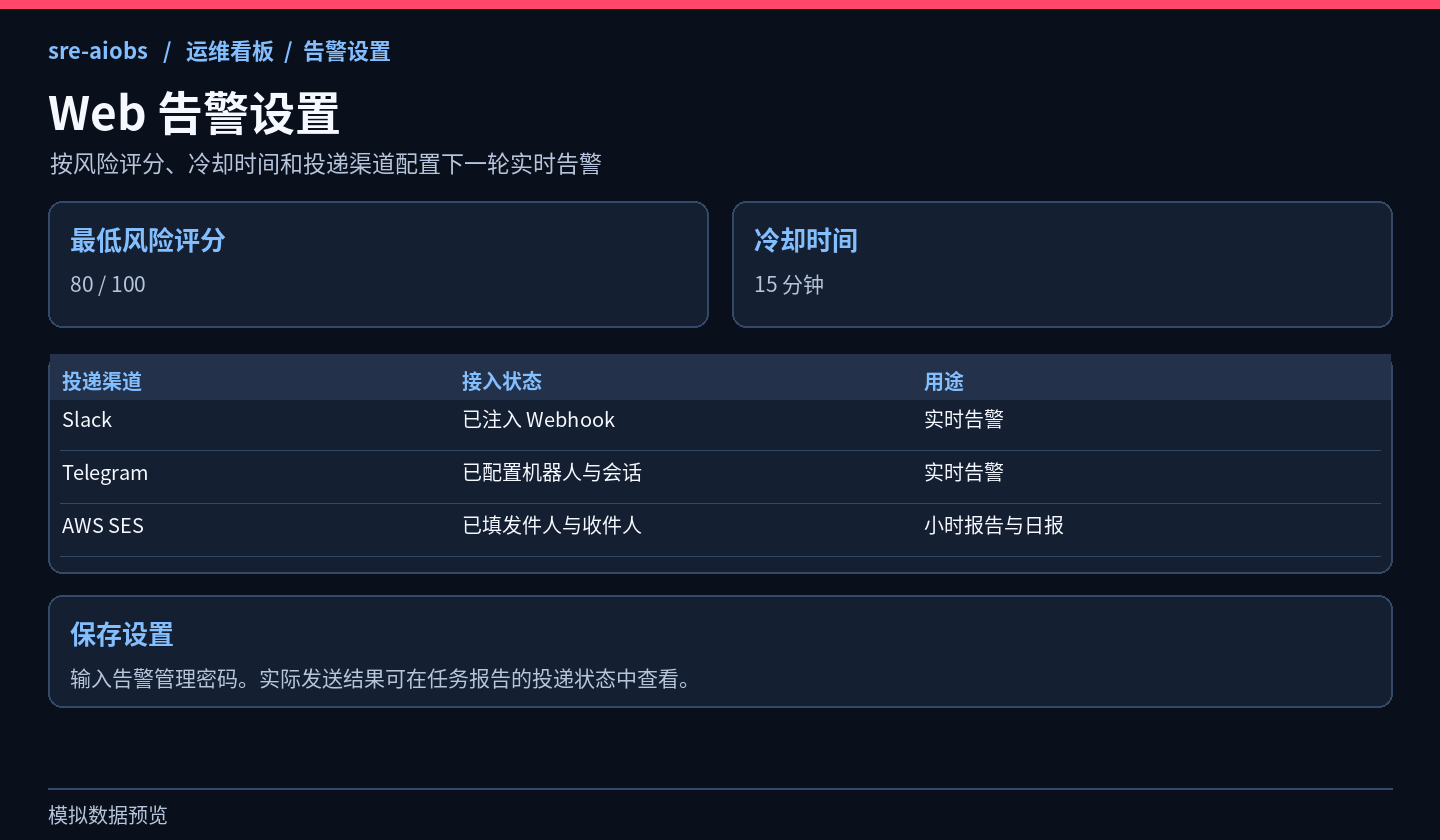
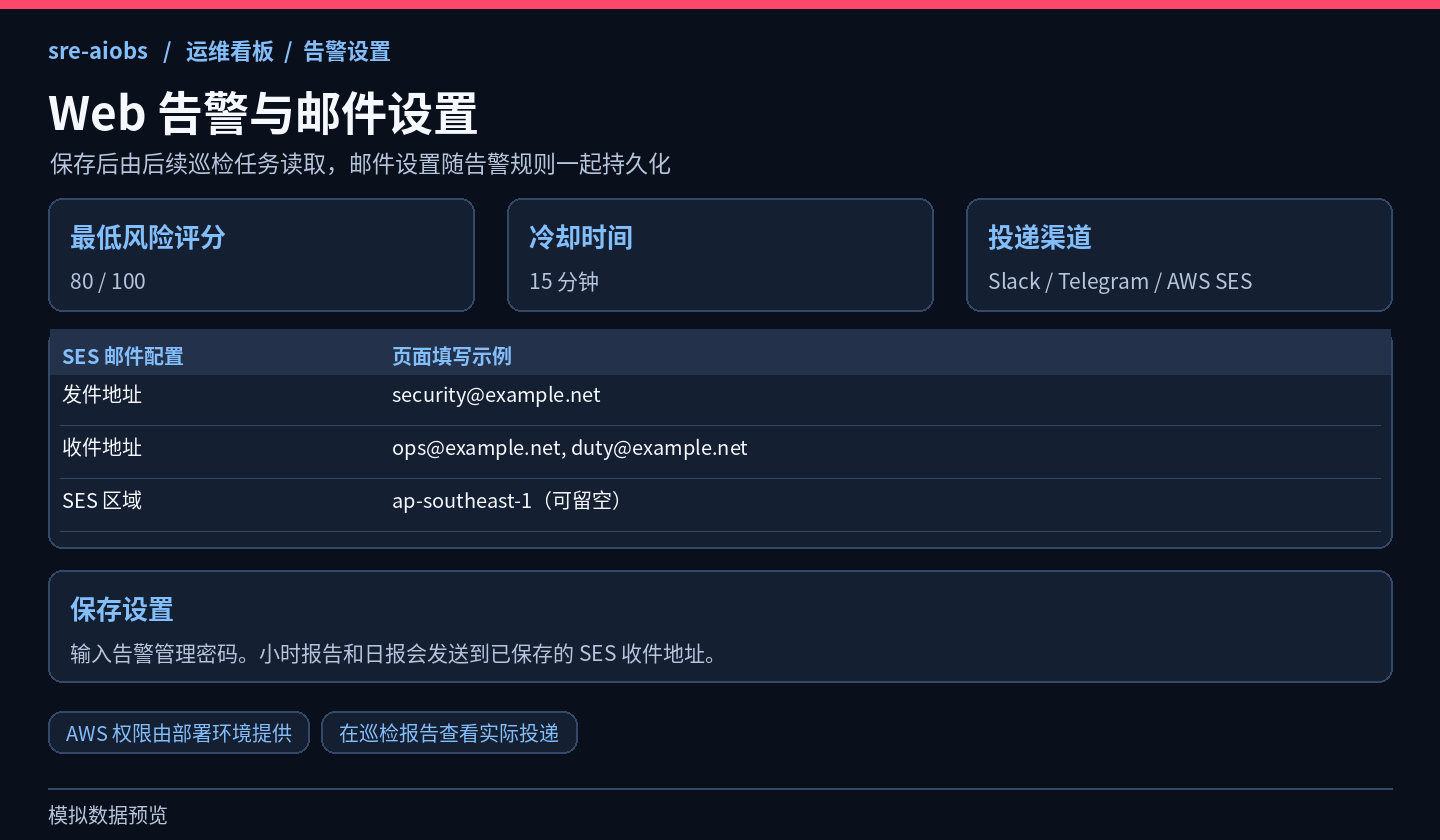
将巡检邮件配置迁移到 Web 告警设置
在页面保存 SES 发件地址、收件地址和可选区域，由 PostgreSQL 提供后续小时报告和日报的投递目标。保留 AWS 权限在部署环境，旧 YAML 邮件地址仅兼容读取配置结构，不参与投递。

增加地址与区域校验、管理密码授权测试和迁移说明，更新告警设置预览。Go 版本与官方最新稳定版 1.27.4 一致。

Changed region(s): [[0.0312, 0.0929, 0.9688, 0.8976], [0.9375, 0.8048, 0.9688, 0.8357]]

diff --git a/internal/dashboard/web/app.js b/internal/dashboard/web/app.js
@@ -345,13 +345,21 @@ async function loadAlertSettings() {
     for (const key of ["slack","telegram","email"]) byId("alert-"+key).checked=settings[key];
     byId("slack-state").textContent=settings.slack_configured?"· 已注入 Webhook":"· 未配置 Webhook";
     byId("telegram-state").textContent=settings.telegram_configured?"· 已配置机器人与会话":"· 缺少机器人或会话";
-    byId("email-state").textContent=settings.email_configured?"· 已填发件人与收件人":"· 缺少发件人或收件人";
+    const email=settings.email_destination||{};
+    byId("email-from").value=email.from||"";
+    byId("email-to").value=(email.to||[]).join("\n");
+    byId("email-region").value=email.region||"";
+    showEmailDestinationStatus(settings.email_configured);
     byId("alert-fields").disabled=!settings.editable;
     byId("alert-actions").hidden=!settings.editable;
     status.textContent=settings.editable?"保存后应用于后续告警任务。":"请配置告警管理密码以启用修改。";
   } catch {
     status.textContent="暂时无法加载告警设置，请刷新页面。";
   }
+}
+
+function showEmailDestinationStatus(configured) {
+  byId("email-state").textContent=configured?"· 已保存发件人与收件人":"· 缺少发件人或收件人";
 }
 
 byId("alert-form").addEventListener("submit",async event=>{
@@ -361,7 +369,12 @@ byId("alert-form").addEventListener("submit",async event=>{
   status.textContent="正在保存…";
   const settings={
     minimum_score:byId("minimum-score").valueAsNumber,
-    cooldown_minutes:byId("cooldown-minutes").valueAsNumber
+    cooldown_minutes:byId("cooldown-minutes").valueAsNumber,
+    email_destination:{
+      from:byId("email-from").value.trim(),
+      to:byId("email-to").value.split(/[,\n]+/).map(address=>address.trim()).filter(Boolean),
+      region:byId("email-region").value.trim()
+    }
   };
   for (const key of ["slack","telegram","email"]) settings[key]=byId("alert-"+key).checked;
   try {
@@ -371,8 +384,12 @@ byId("alert-form").addEventListener("submit",async event=>{
       body:JSON.stringify(settings)
     });
     if (response.status===403) status.textContent="告警管理密码错误或未配置。";
+    else if (response.status===400) status.textContent="请检查风险阈值、邮件地址和 AWS 区域，收件地址最多 50 个。";
     else if (!response.ok) status.textContent="保存失败，请检查设置后重试。";
-    else status.textContent="已保存。后续告警任务将使用新设置。";
+    else {
+      showEmailDestinationStatus(Boolean(settings.email_destination.from&&settings.email_destination.to.length));
+      status.textContent="已保存。后续告警任务将使用新设置。";
+    }
   } catch {
     status.textContent="无法保存，请检查连接后重试。";
   } finally {

diff --git a/internal/dashboard/web/index.html b/internal/dashboard/web/index.html
@@ -64,7 +64,7 @@
         <a class="channel-button" href="https://api.slack.com/apps" target="_blank" rel="noopener noreferrer">配置 Slack Webhook</a>
         <p>Telegram：用 <code>/newbot</code> 创建机器人，注入 <code>TELEGRAM_BOT_TOKEN</code>，并在 YAML 填写 <code>telegram_chat</code>。</p>
         <p>Slack：启用 Incoming Webhooks，选择接收频道，再注入 <code>SLACK_WEBHOOK_URL</code>。</p>
-        <p>邮件：在 YAML 填写 <code>email_from</code> 和 <code>email_to</code>，并为部署配置 AWS SES 地区及发送权限。</p>
+        <p>邮件：在下方填写已通过 AWS SES 验证的发件地址、收件地址和 AWS 区域。AWS 发送权限由部署环境提供。</p>
       </div>
       <form id="alert-form" autocomplete="off">
         <fieldset id="alert-fields" disabled>
@@ -74,6 +74,11 @@
             <label><input id="alert-slack" type="checkbox">Slack 实时告警 <small id="slack-state"></small></label>
             <label><input id="alert-telegram" type="checkbox">Telegram 实时告警 <small id="telegram-state"></small></label>
             <label><input id="alert-email" type="checkbox">邮件小时报告与日报 <small id="email-state"></small></label>
+          </div>
+          <div class="alert-fields email-destination">
+            <label>SES 发件地址<input id="email-from" type="email" maxlength="254" placeholder="security@example.net"></label>
+            <label>SES 收件地址<textarea id="email-to" rows="3" maxlength="12750" placeholder="每行一个，也可用逗号分隔"></textarea></label>
+            <label>SES 区域<input id="email-region" type="text" maxlength="40" placeholder="留空使用部署环境的区域"></label>
           </div>
         </fieldset>
         <div id="alert-actions" hidden><label>告警管理密码 <input id="alert-password" type="password" required></label><button id="alert-save" type="submit">保存设置</button></div>

diff --git a/internal/dashboard/web/app.css b/internal/dashboard/web/app.css
@@ -19,3 +19,5 @@ dialog{width:min(92vw,590px);max-height:85vh;padding:22px;border:1px solid var(-
 .source-check{display:inline-flex;align-items:center;gap:8px;white-space:normal}.source-check [role=status]{color:var(--muted)}
 
 .source-hint{margin:0 0 12px;color:var(--muted);font-size:.88rem}
+
+.email-destination{align-items:start;margin:0 0 16px}.email-destination textarea{width:100%;padding:9px 11px;border:1px solid #cfdaea;border-radius:8px;font:inherit;color:inherit;resize:vertical}

diff --git a/internal/dashboard/alerts_status_test.go b/internal/dashboard/alerts_status_test.go
@@ -11,13 +11,14 @@ import (
 	"sre-aiobs/internal/platform"
 )
 
-type alertStatusFixture struct{}
+type alertStatusFixture struct{ settings platform.AlertSettings }
 
-func (alertStatusFixture) AlertSettings(context.Context) (platform.AlertSettings, error) {
-	return platform.DefaultAlertSettings(), nil
+func (f *alertStatusFixture) AlertSettings(context.Context) (platform.AlertSettings, error) {
+	return f.settings, nil
 }
 
-func (alertStatusFixture) SaveAlertSettings(context.Context, platform.AlertSettings) error {
+func (f *alertStatusFixture) SaveAlertSettings(_ context.Context, settings platform.AlertSettings) error {
+	f.settings = settings
 	return nil
 }
 
@@ -25,9 +26,9 @@ func TestAlertSettingsShowsConfiguredDestinationsWithoutSecrets(t *testing.T) {
 	t.Setenv("SLACK_WEBHOOK_URL", "slack-fixture-secret")
 	t.Setenv("TELEGRAM_BOT_TOKEN", "telegram-fixture-secret")
 	mux := http.NewServeMux()
-	mountAlerts(mux, alertStatusFixture{}, func(h http.Handler) http.HandlerFunc { return h.ServeHTTP }, "test", func() (bool, bool) {
-		return false, true
-	})
+	settings := platform.DefaultAlertSettings()
+	settings.EmailDestination = &platform.EmailDestination{From: "sender@example.net", To: []string{"ops@example.net"}}
+	mountAlerts(mux, &alertStatusFixture{settings: settings}, func(h http.Handler) http.HandlerFunc { return h.ServeHTTP }, "test", func() bool { return false })
 	res := httptest.NewRecorder()
 	mux.ServeHTTP(res, httptest.NewRequest(http.MethodGet, "/api/alert-settings", nil))
 	var flags map[string]json.RawMessage
@@ -35,5 +36,34 @@ func TestAlertSettingsShowsConfiguredDestinationsWithoutSecrets(t *testing.T) {
 		string(flags["slack_configured"]) != "true" || string(flags["telegram_configured"]) != "false" ||
 		string(flags["email_configured"]) != "true" || strings.Contains(res.Body.String(), "fixture-secret") {
 		t.Fatalf("unexpected destination configuration: %d %s", res.Code, res.Body.String())
+	}
+}
+
+func TestAlertSettingsValidatesAndSavesEmailDestination(t *testing.T) {
+	mux := http.NewServeMux()
+	store := &alertStatusFixture{settings: platform.DefaultAlertSettings()}
+	mountAlerts(mux, store, func(h http.Handler) http.HandlerFunc { return h.ServeHTTP }, "test", nil)
+	save := func(destination, password string) int {
+		body := `{"minimum_score":85,"cooldown_minutes":15,"slack":true,"telegram":true,"email":true,"email_destination":` + destination + `}`
+		req := httptest.NewRequest(http.MethodPut, "/api/alert-settings", strings.NewReader(body))
+		req.Header.Set("Content-Type", "application/json")
+		req.Header.Set("X-Alert-Settings-Password", password)
+		res := httptest.NewRecorder()
+		mux.ServeHTTP(res, req)
+		return res.Code
+	}
+	valid := `{"from":"sender@example.net","to":["ops@example.net","duty@example.net"],"region":"ap-southeast-1"}`
+	if got := save(valid, "wrong"); got != http.StatusForbidden {
+		t.Fatalf("unauthorized update returned %d", got)
+	}
+	if got := save(`{"from":"not-an-email","to":["ops@example.net"]}`, "test"); got != http.StatusBadRequest {
+		t.Fatalf("invalid email update returned %d", got)
+	}
+	if got := save(valid, "test"); got != http.StatusNoContent || !store.settings.EmailDestination.Configured() ||
+		store.settings.EmailDestination.Region != "ap-southeast-1" || len(store.settings.EmailDestination.To) != 2 {
+		t.Fatalf("valid update did not persist: %d %+v", got, store.settings.EmailDestination)
+	}
+	if got := save(`{"from":"","to":[],"region":""}`, "test"); got != http.StatusNoContent || store.settings.EmailDestination.Configured() {
+		t.Fatalf("clear address update failed: %d %+v", got, store.settings.EmailDestination)
 	}
 }

diff --git a/internal/dashboard/alerts.go b/internal/dashboard/alerts.go
@@ -19,7 +19,7 @@ type alertStore interface {
 	SaveAlertSettings(context.Context, platform.AlertSettings) error
 }
 
-func mountAlerts(mux *http.ServeMux, backend alertStore, protect func(http.Handler) http.HandlerFunc, adminPassword string, destinations func() (telegram, email bool)) {
+func mountAlerts(mux *http.ServeMux, backend alertStore, protect func(http.Handler) http.HandlerFunc, adminPassword string, telegramDestination func() bool) {
 	expected := sha256.Sum256([]byte(adminPassword))
 	const route = "/api/alert-settings"
 	mux.HandleFunc("GET "+route, protect(http.HandlerFunc(func(w http.ResponseWriter, r *http.Request) {
@@ -30,10 +30,7 @@ func mountAlerts(mux *http.ServeMux, backend alertStore, protect func(http.Handl
 			http.Error(w, "Alert settings unavailable", 503)
 			return
 		}
-		var telegram, email bool
-		if destinations != nil {
-			telegram, email = destinations()
-		}
+		telegram := telegramDestination != nil && telegramDestination()
 		w.Header().Set("Content-Type", "application/json")
 		_ = json.NewEncoder(w).Encode(struct {
 			platform.AlertSettings
@@ -41,7 +38,7 @@ func mountAlerts(mux *http.ServeMux, backend alertStore, protect func(http.Handl
 			TelegramConfigured bool `json:"telegram_configured"`
 			EmailConfigured    bool `json:"email_configured"`
 			Editable           bool `json:"editable"`
-		}{settings, os.Getenv("SLACK_WEBHOOK_URL") != "", telegram && os.Getenv("TELEGRAM_BOT_TOKEN") != "", email, adminPassword != ""})
+		}{settings, os.Getenv("SLACK_WEBHOOK_URL") != "", telegram && os.Getenv("TELEGRAM_BOT_TOKEN") != "", settings.EmailDestination.Configured(), adminPassword != ""})
 	})))
 	mux.HandleFunc("PUT "+route, protect(http.HandlerFunc(func(w http.ResponseWriter, r *http.Request) {
 		supplied := sha256.Sum256([]byte(r.Header.Get("X-Alert-Settings-Password")))
@@ -55,20 +52,21 @@ func mountAlerts(mux *http.ServeMux, backend alertStore, protect func(http.Handl
 			return
 		}
 		var input struct {
-			MinimumScore    int   `json:"minimum_score"`
-			CooldownMinutes int   `json:"cooldown_minutes"`
-			Telegram        *bool `json:"telegram"`
-			Slack           *bool `json:"slack"`
-			Email           *bool `json:"email"`
+			MinimumScore     int                        `json:"minimum_score"`
+			CooldownMinutes  int                        `json:"cooldown_minutes"`
+			Telegram         *bool                      `json:"telegram"`
+			Slack            *bool                      `json:"slack"`
+			Email            *bool                      `json:"email"`
+			EmailDestination *platform.EmailDestination `json:"email_destination"`
 		}
-		decoder := json.NewDecoder(http.MaxBytesReader(w, r.Body, 4096))
+		decoder := json.NewDecoder(http.MaxBytesReader(w, r.Body, 16384))
 		decoder.DisallowUnknownFields()
 		var trailing any
 		if decoder.Decode(&input) != nil || decoder.Decode(&trailing) != io.EOF || input.Telegram == nil || input.Slack == nil || input.Email == nil {
 			http.Error(w, "Invalid alert settings", 400)
 			return
 		}
-		settings := platform.AlertSettings{MinimumScore: input.MinimumScore, CooldownMinutes: input.CooldownMinutes, Telegram: *input.Telegram, Slack: *input.Slack, Email: *input.Email}
+		settings := platform.AlertSettings{MinimumScore: input.MinimumScore, CooldownMinutes: input.CooldownMinutes, Telegram: *input.Telegram, Slack: *input.Slack, Email: *input.Email, EmailDestination: input.EmailDestination}
 		if !settings.Valid() {
 			http.Error(w, "Invalid alert settings", 400)
 			return

diff --git a/internal/notify/notify.go b/internal/notify/notify.go
@@ -53,8 +53,8 @@ type reportView struct {
 
 var htmlReport = template.Must(template.New("report").Parse(`<!doctype html><html><body><h1>日志探测报告</h1><p>{{.Source}} / {{.Index}} / {{.Environment}}</p><p>{{.Window.Start}} 至 {{.Window.End}}</p><p>原始日志量 {{.Snapshot.Total}}，敏感 URI 事件请求量 {{.Sensitive}}</p>{{if .VulnerabilityScan}}<h2>漏洞扫描发现</h2><p>本窗口共 {{.VulnerabilityTotal}} 个 CVE，最多展示 100 项。</p>{{if .Vulnerabilities}}<table><tr><th>CVE</th><th>扫描记录数</th></tr>{{range .Vulnerabilities}}<tr><td>{{.Target}}</td><td>{{.Count}}</td></tr>{{end}}</table>{{else}}<p>本窗口未收到符合条件的 CVE 记录。</p>{{end}}{{end}}<h2>地区分布</h2><ul>{{range $region,$count := .Regions}}<li>{{$region}} {{$count}}</li>{{end}}</ul><h2>风险事件与异常 IP</h2><table><tr><th>规则</th><th>目标标识</th><th>IP</th><th>国家</th><th>地区</th><th>次数</th><th>风险</th></tr>{{range .Events}}<tr><td>{{.Rule}}</td><td>{{.Target}}</td><td>{{.IP}}</td><td>{{.Country}}</td><td>{{.Region}}</td><td>{{.Count}}</td><td>{{.Score}}</td></tr>{{end}}</table><h2>接口响应时间（秒）</h2><table><tr><th>接口标识</th><th>P50</th><th>P95</th><th>P99</th></tr>{{range .Latency}}<tr><td>{{.Endpoint}}</td><td>{{.P50}}</td><td>{{.P95}}</td><td>{{.P99}}</td></tr>{{end}}</table>{{with .Analysis}}<h2>AI 分析</h2><p>{{.Severity}} {{.Summary}}</p><ul>{{range .Actions}}<li>{{.}}</li>{{end}}</ul>{{end}}</body></html>`))
 
-func (s Service) Email(ctx context.Context, c config.Config, r platform.Report) error {
-	if len(c.EmailTo) == 0 {
+func (s Service) Email(ctx context.Context, destination platform.EmailDestination, r platform.Report) error {
+	if !destination.Configured() {
 		return nil
 	}
 	view := reportView{Report: r, Regions: map[string]int{}}
@@ -102,9 +102,13 @@ func (s Service) Email(ctx context.Context, c config.Config, r platform.Report) 
 		subject = "漏洞检测" + period + " · " + r.Source
 	}
 	_, err := s.SES.SendEmail(ctx, &sesv2.SendEmailInput{
-		FromEmailAddress: aws.String(c.EmailFrom), Destination: &types.Destination{ToAddresses: c.EmailTo},
+		FromEmailAddress: aws.String(destination.From), Destination: &types.Destination{ToAddresses: destination.To},
 		Content: &types.EmailContent{Simple: &types.Message{Subject: &types.Content{Data: aws.String(subject), Charset: aws.String("UTF-8")},
 			Body: &types.Body{Html: &types.Content{Data: aws.String(body.String()), Charset: aws.String("UTF-8")}}}},
+	}, func(options *sesv2.Options) {
+		if destination.Region != "" {
+			options.Region = destination.Region
+		}
 	})
 	if err != nil {
 		return errors.New("SES send failed")

diff --git a/internal/platform/alerts.go b/internal/platform/alerts.go
@@ -1,11 +1,54 @@
 package platform
 
+import (
+	"net/mail"
+	"regexp"
+	"strings"
+)
+
 type AlertSettings struct {
-	MinimumScore    int  `json:"minimum_score"`
-	CooldownMinutes int  `json:"cooldown_minutes"`
-	Telegram        bool `json:"telegram"`
-	Slack           bool `json:"slack"`
-	Email           bool `json:"email"`
+	MinimumScore     int               `json:"minimum_score"`
+	CooldownMinutes  int               `json:"cooldown_minutes"`
+	Telegram         bool              `json:"telegram"`
+	Slack            bool              `json:"slack"`
+	Email            bool              `json:"email"`
+	EmailDestination *EmailDestination `json:"email_destination,omitempty"`
+}
+
+type EmailDestination struct {
+	From   string   `json:"from"`
+	To     []string `json:"to"`
+	Region string   `json:"region"`
+}
+
+var awsRegion = regexp.MustCompile(`^[a-z]{2}(?:-[a-z0-9]+)+-[0-9]+$`)
+
+func (d *EmailDestination) Configured() bool {
+	return d != nil && d.From != "" && len(d.To) > 0
+}
+
+func (d *EmailDestination) valid() bool {
+	if d == nil {
+		return true
+	}
+	if (d.From != "" && !validMailbox(d.From)) || len(d.To) > 50 ||
+		(d.Region != "" && (len(d.Region) > 40 || !awsRegion.MatchString(d.Region))) {
+		return false
+	}
+	for _, addr := range d.To {
+		if !validMailbox(addr) {
+			return false
+		}
+	}
+	return true
+}
+
+func validMailbox(value string) bool {
+	if len(value) > 254 || strings.IndexFunc(value, func(r rune) bool { return r < 33 || r > 126 }) >= 0 {
+		return false
+	}
+	address, err := mail.ParseAddress(value)
+	return err == nil && address.Name == "" && address.Address == value
 }
 
 func DefaultAlertSettings() AlertSettings {
@@ -13,5 +56,5 @@ func DefaultAlertSettings() AlertSettings {
 }
 
 func (s AlertSettings) Valid() bool {
-	return s.MinimumScore >= 1 && s.MinimumScore <= 100 && s.CooldownMinutes >= 1 && s.CooldownMinutes <= 1440
+	return s.MinimumScore >= 1 && s.MinimumScore <= 100 && s.CooldownMinutes >= 1 && s.CooldownMinutes <= 1440 && s.EmailDestination.valid()
 }

diff --git a/internal/worker/worker.go b/internal/worker/worker.go
@@ -28,7 +28,7 @@ var Schedules = []Schedule{{"minute", time.Minute}, {"five_minutes", 5 * time.Mi
 type Notifier interface {
 	Telegram(context.Context, config.Config, platform.Report, platform.AlertSettings) error
 	Slack(context.Context, platform.Report, platform.AlertSettings) error
-	Email(context.Context, config.Config, platform.Report) error
+	Email(context.Context, platform.EmailDestination, platform.Report) error
 }
 
 type Runner struct {
@@ -127,7 +127,7 @@ func (r *Runner) process(ctx context.Context, c config.Config, s config.Source, 
 	var failures error
 	telegram := j.Kind == "minute" && c.TelegramChat != ""
 	slack := j.Kind == "minute" && os.Getenv("SLACK_WEBHOOK_URL") != ""
-	email := (j.Kind == "hour" || j.Kind == "day") && len(c.EmailTo) > 0
+	email := j.Kind == "hour" || j.Kind == "day"
 	if !telegram && !slack && !email {
 		return failures
 	}
@@ -141,8 +141,8 @@ func (r *Runner) process(ctx context.Context, c config.Config, s config.Source, 
 	if slack && settings.Slack {
 		failures = errors.Join(failures, r.Store.Notification(ctx, j.ID, "slack", func() error { return r.Notifier.Slack(ctx, report, settings) }))
 	}
-	if email && settings.Email {
-		return errors.Join(failures, r.Store.Notification(ctx, j.ID, "ses", func() error { return r.Notifier.Email(ctx, c, report) }))
+	if email && settings.Email && settings.EmailDestination.Configured() {
+		return errors.Join(failures, r.Store.Notification(ctx, j.ID, "ses", func() error { return r.Notifier.Email(ctx, *settings.EmailDestination, report) }))
 	}
 	return failures
 }

diff --git a/cmd/sre-aiobs/main.go b/cmd/sre-aiobs/main.go
@@ -162,12 +162,9 @@ func run() error {
 	initial := c
 	activeConfig.Store(&initial)
 	access := dashboard.SourceAccess{
-		Current: func() []config.Source { return activeConfig.Load().Sources },
-		AlertDestinations: func() (bool, bool) {
-			current := activeConfig.Load()
-			return current.TelegramChat != "", current.EmailFrom != "" && len(current.EmailTo) > 0
-		},
-		HTTP: client,
+		Current:             func() []config.Source { return activeConfig.Load().Sources },
+		TelegramDestination: func() bool { return activeConfig.Load().TelegramChat != "" },
+		HTTP:                client,
 	}
 	dashboardPassword := os.Getenv("DASHBOARD_PASSWORD")
 	login, err := dashboard.NewLogin(os.Getenv("DASHBOARD_TOTP_SECRET"), dashboardPassword, cache)

diff --git a/internal/store/alerts.go b/internal/store/alerts.go
@@ -23,7 +23,7 @@ func (s Store) SaveAlertSettings(ctx context.Context, settings platform.AlertSet
 	}
 	return pgx.BeginFunc(ctx, s.DB, func(tx pgx.Tx) error {
 		if _, err := tx.Exec(ctx, `INSERT INTO alert_settings (singleton,payload) VALUES(true,$1)
-   ON CONFLICT(singleton) DO UPDATE SET payload=excluded.payload`, settings); err != nil {
+   ON CONFLICT(singleton) DO UPDATE SET payload=alert_settings.payload || excluded.payload`, settings); err != nil {
 			return err
 		}
 		_, err := tx.Exec(ctx, `INSERT INTO audit_logs(action) VALUES('alert_settings_updated')`)

diff --git a/internal/dashboard/dashboard.go b/internal/dashboard/dashboard.go
@@ -62,7 +62,7 @@ func Mount(mux *http.ServeMux, reader Reader, password string, access SourceAcce
 		mountReports(mux, backend, protected)
 	}
 	if backend, ok := reader.(alertStore); ok {
-		mountAlerts(mux, backend, protected, os.Getenv("ALERT_SETTINGS_PASSWORD"), access.AlertDestinations)
+		mountAlerts(mux, backend, protected, os.Getenv("ALERT_SETTINGS_PASSWORD"), access.TelegramDestination)
 	}
 	if access.Current != nil {
 		mountSources(mux, access, protected)

diff --git a/internal/config/config.go b/internal/config/config.go
@@ -65,8 +65,8 @@ type Config struct {
 	Rules             Rules
 	AI                AI
 	TelegramChat      string   `yaml:"telegram_chat"`
-	EmailFrom         string   `yaml:"email_from"`
-	EmailTo           []string `yaml:"email_to"`
+	LegacyEmailFrom   string   `yaml:"email_from"`
+	LegacyEmailTo     []string `yaml:"email_to"`
 	GeoDB             string   `yaml:"geo_db"`
 }
 
